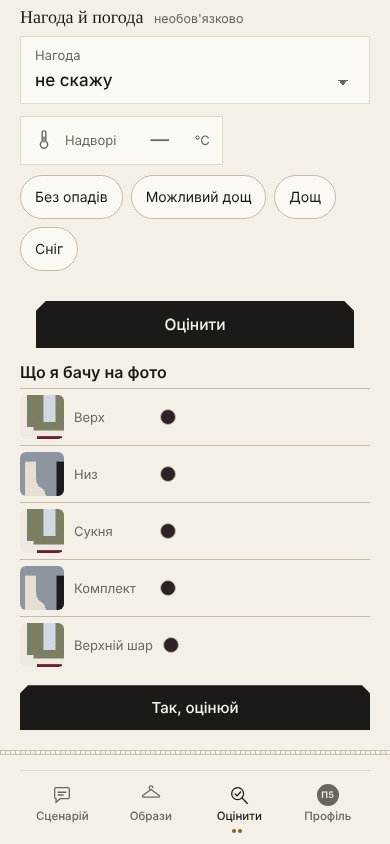
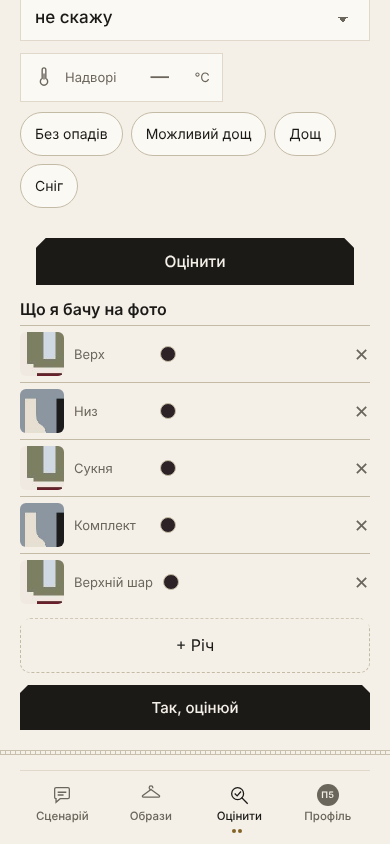
Перевірка #1130: звіт і знімки на злитій голові

diff --git a/аудит/перевірка_1130/звіт.md b/аудит/перевірка_1130/звіт.md
@@ -1,8 +1,8 @@
-# Перевірка пачки 1015-18 (#1130), голова 12f88d2ea861b4841e0966834d0db0fb8410fdcb
+# Перевірка пачки 1015-18 (#1130), голова 37638a7bbacc3443f184f72677d12afdfabffcf1 (після злиття #1127 і виправлення «досяжності»)
 
 Склад: #1128 (5770, 5771), #1125 (5791), #1122 (5243, 5790; знахідка 5850). База — `main` 9e003df8a.
 
-- Батарея з `CLAUDE.md` на голові: зелена — 747 звірок у 66 розділах, показ зелений (`батарея.log`).
+- Батарея з `CLAUDE.md` на голові: зелена — 747 звірок у 66 розділах, показ зелений (`батарея.log`, 749 звірок на злитій голові).
 - 5771 (Chromium, зібрана сторінка, 390×844, знімки `перелік_5/6/8_після.png` очима): «Так, оцінюй» нижче переліку й вище нижньої панелі (кнопка 685–730 при панелі від 750), видно всі рядки при 5, 6 і 8 речах.
 - 5770 (той самий прилад, перелік показано на 9,8 с, суд 9,8–13,7 с): дотик оброблено на 11,4 с, тобто посеред суду; затримка 84 мс; `мс_до_так` 1595. Найдовша зупинка потоку 784 мс (5840), крок «каталог» ≈10 с (5841) — обидва вже на дошці.
 - 5791: проба `тканина_код_5791.py` — непустий вхід 10 → 13 із 35 матеріалів (лак, нубук, оксамит).
@@ -12,3 +12,8 @@
 1. `оцінка_образу.прогріти_каталог`: новий виклик `міст_опис.показ` ловить лише KeyError/TypeError/ValueError, а коментар каже «провал прогріву оцінки не зупиняє»; інше виняток (AttributeError, OSError) зупинить крок «каталог». Низька.
 2. `суд_без_блоку` поступається головному потоку, тож суд більше не атомарний: перекриття з іншим викликом моста можливе. Зламу не виявлено (прогін стенда дав картку), але окремого тесту перекриття нема. Низька.
 Інших зауважень до `bridge.py`, `міст_оцінка.py`, `показ.html` (sticky-кнопка, `відгук_мс`) і `річ_з_фото.py` нема.
+
+## Після злиття main з пачкою 16 (#1127, екран переліку дотиком) — повторено в Chromium
+- 5771: «Так, оцінюй» на 685–730 при панелі від 750 при 5, 6 і 8 речах, видно всі рядки (знімки очима оновлено; поруч «×» і «+ Річ» з #1127).
+- 5770: дотик оброблено на 18,6 с при суді 17,0–25,0 с, затримка 98 мс (перший прогін 890 мс — шум машини, повтор 98).
+- CI #1130 на 12f88d2 був червоний: «досяжність» НІХТО=1 — `bridge.виклик_а` кличе лише `показ.html` (> 1 МБ, греп його не читає). Виправлено в пачці: проба `суд_покроково_5770.py` кличе й звіряє `виклик_а` з `виклик`; повний `досяжність.py` дає НІХТО=0.
